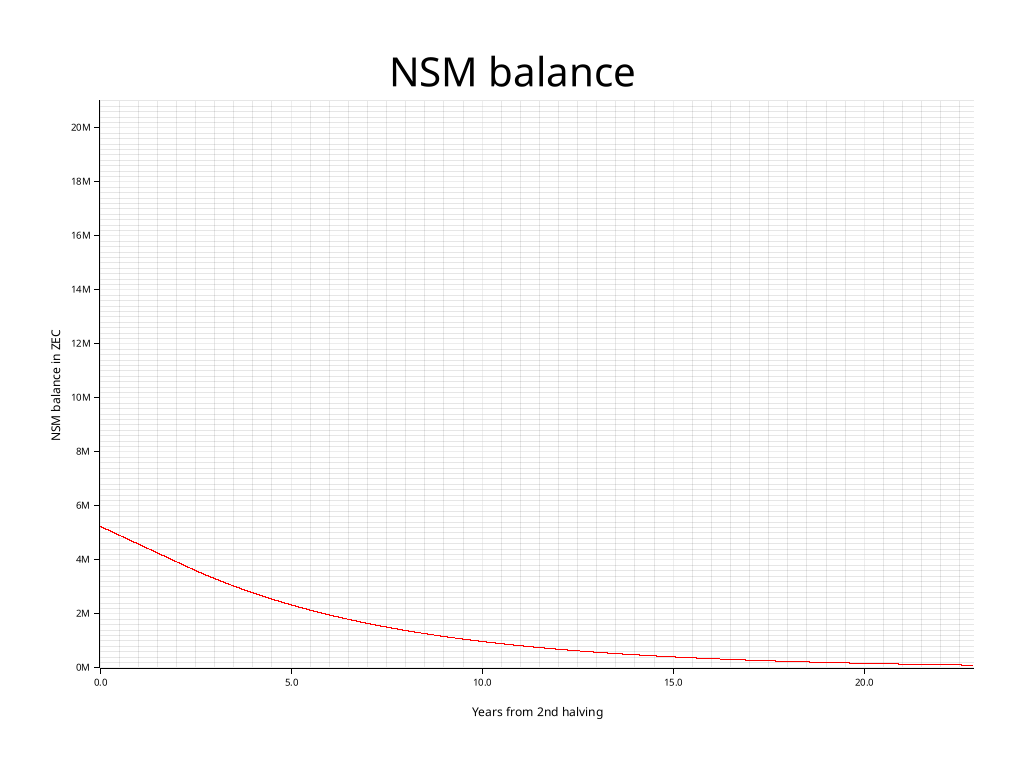
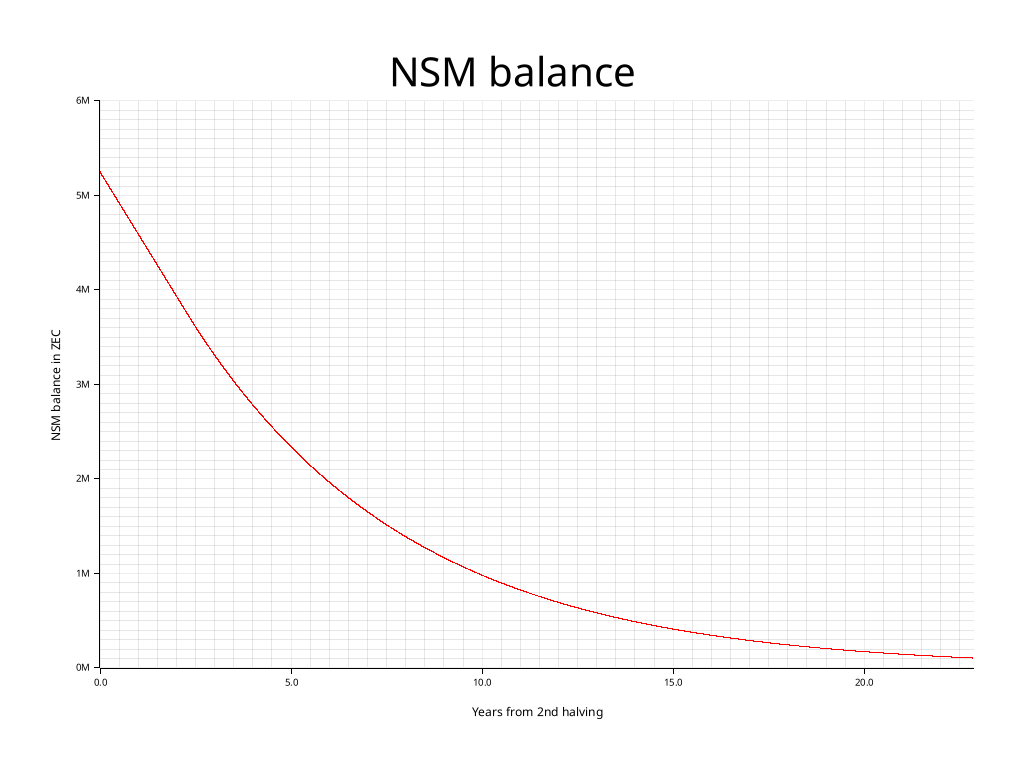
Adjust vertical graph scaling.

Changed region(s): [[0.0625, 0.125, 0.9688, 0.875]]

diff --git a/src/plots.rs b/src/plots.rs
@@ -4,7 +4,7 @@ use plotters::{
     style::*,
 };
 
-use crate::{INITIAL_HALVING, MAX_MONEY};
+use crate::INITIAL_HALVING;
 
 const BALANCE_PLOT_PATH: &str = "plots/nsm_balance.png";
 const BLOCK_SUBSIDY_PLOT_PATH: &str = "plots/nsm_block_subsidy.png";
@@ -39,7 +39,7 @@ fn balance_plot(points: &[(f64, f64)], years: f64) {
         .margin(50)
         .x_label_area_size(50)
         .y_label_area_size(50)
-        .build_cartesian_2d(0f64..years, 0f64..(MAX_MONEY as f64))
+        .build_cartesian_2d(0f64..years, 0f64..6_000_000_f64)
         .unwrap();
 
     chart
@@ -78,7 +78,7 @@ fn block_subsidy_plot(
         .margin(50)
         .x_label_area_size(50)
         .y_label_area_size(50)
-        .build_cartesian_2d(0f64..years, 0f64..5f64)
+        .build_cartesian_2d(0f64..years, 0f64..2f64)
         .unwrap();
 
     chart
